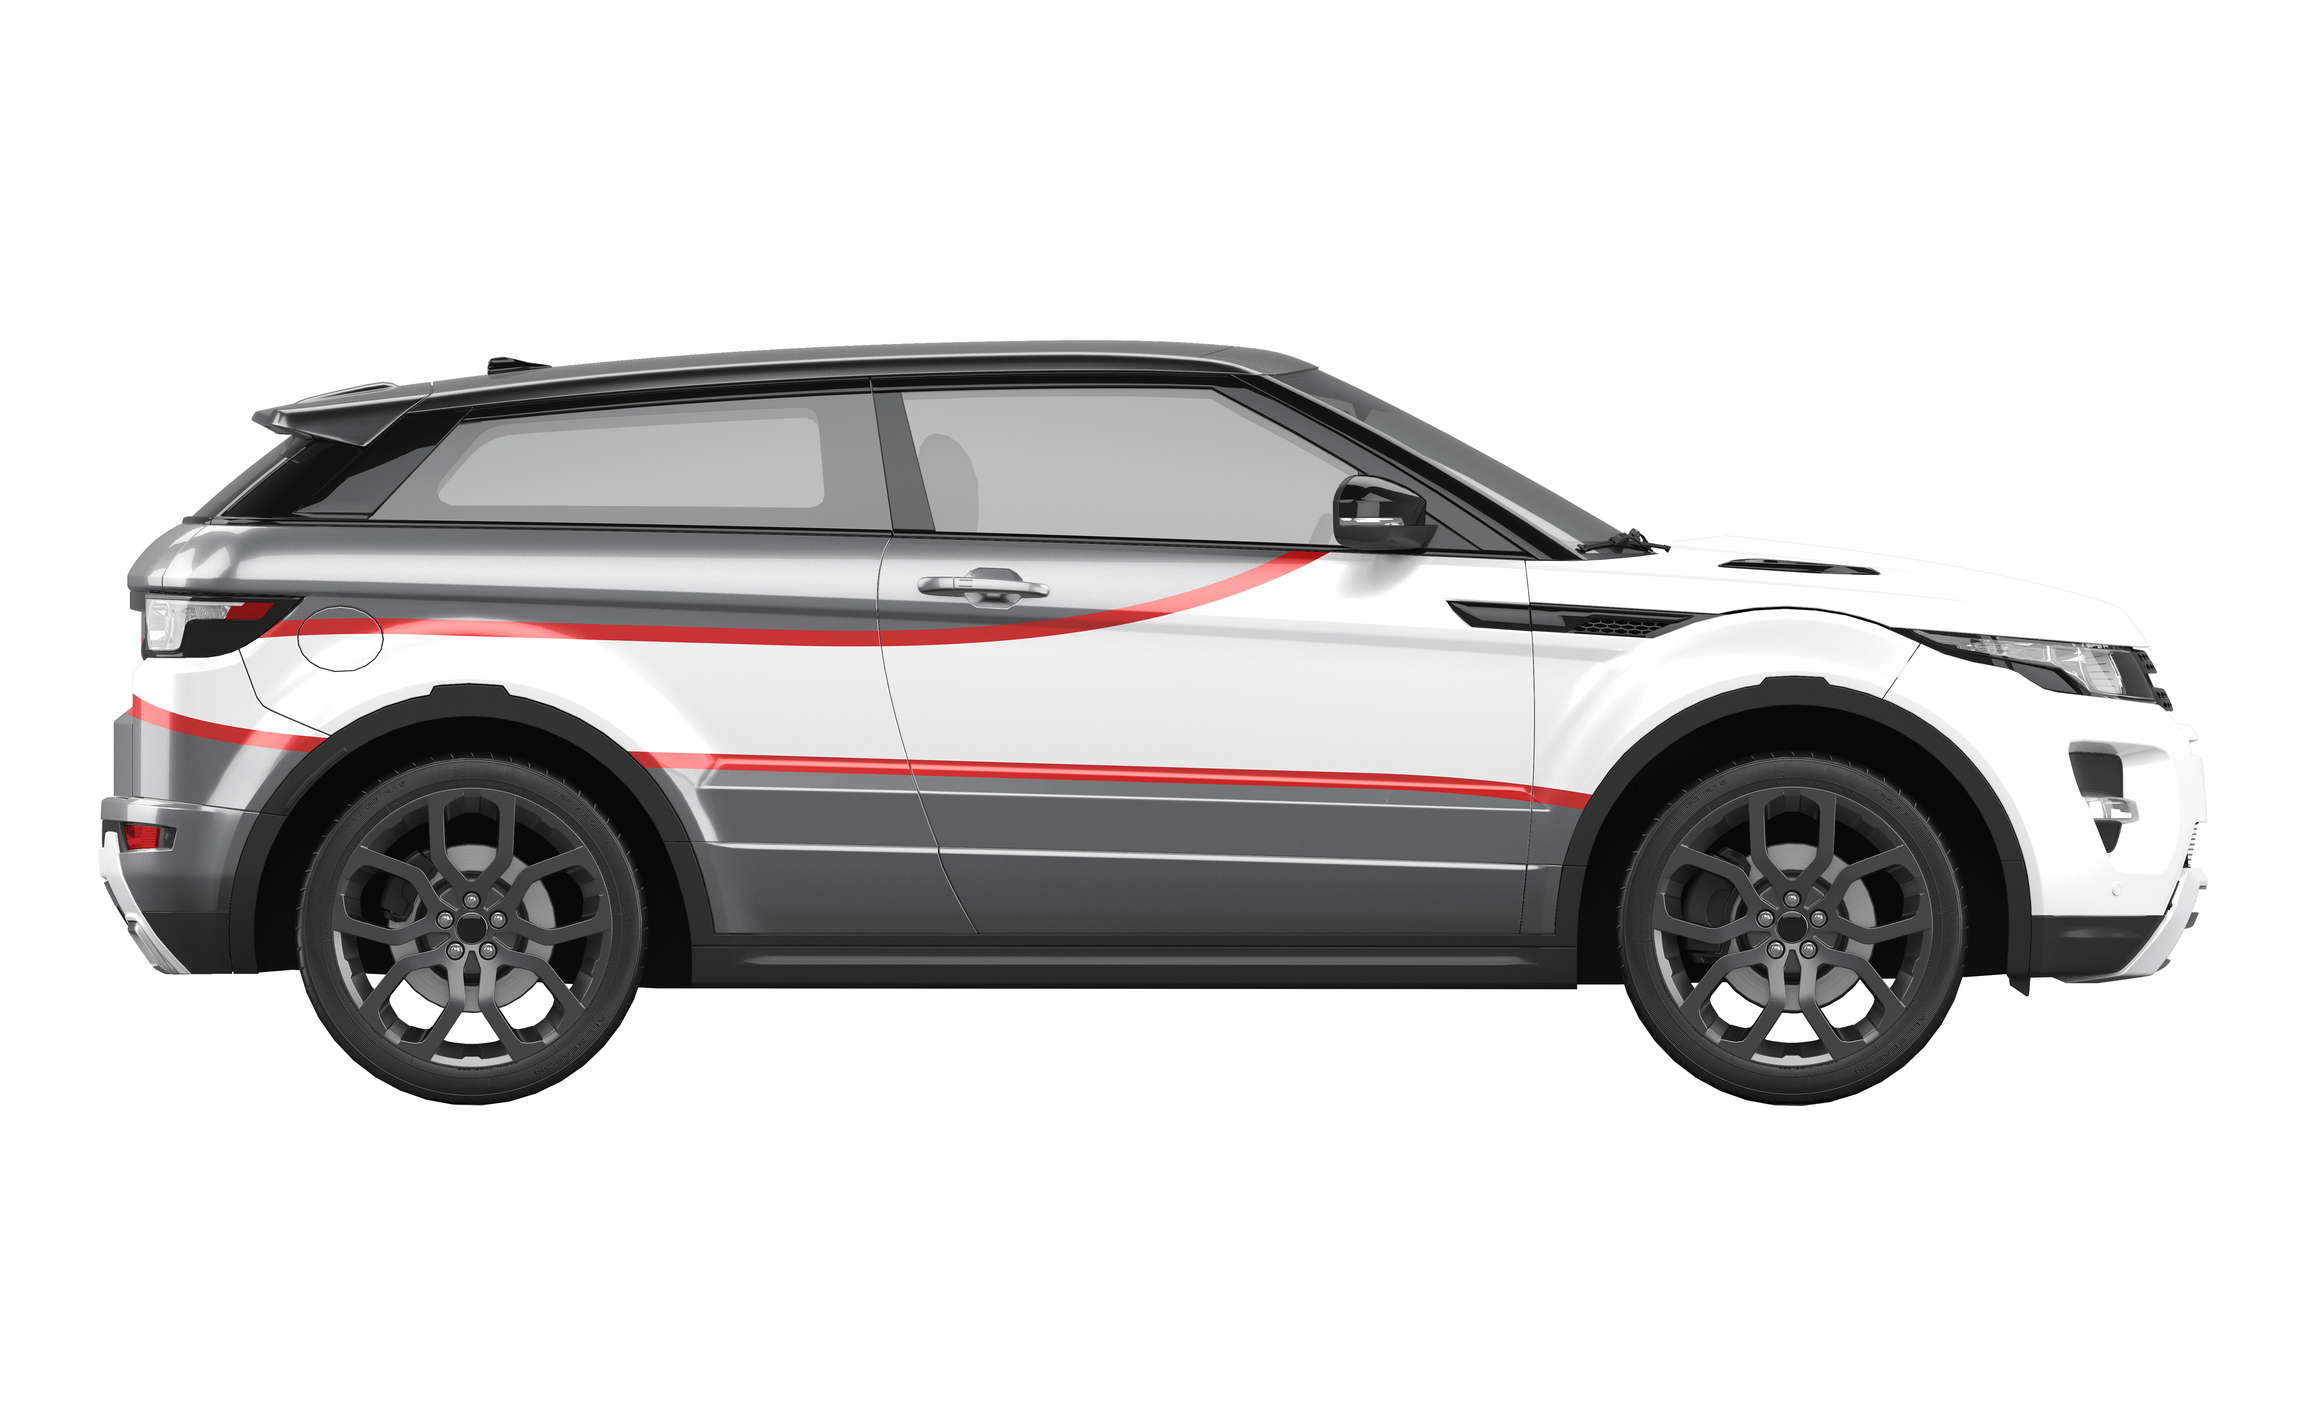
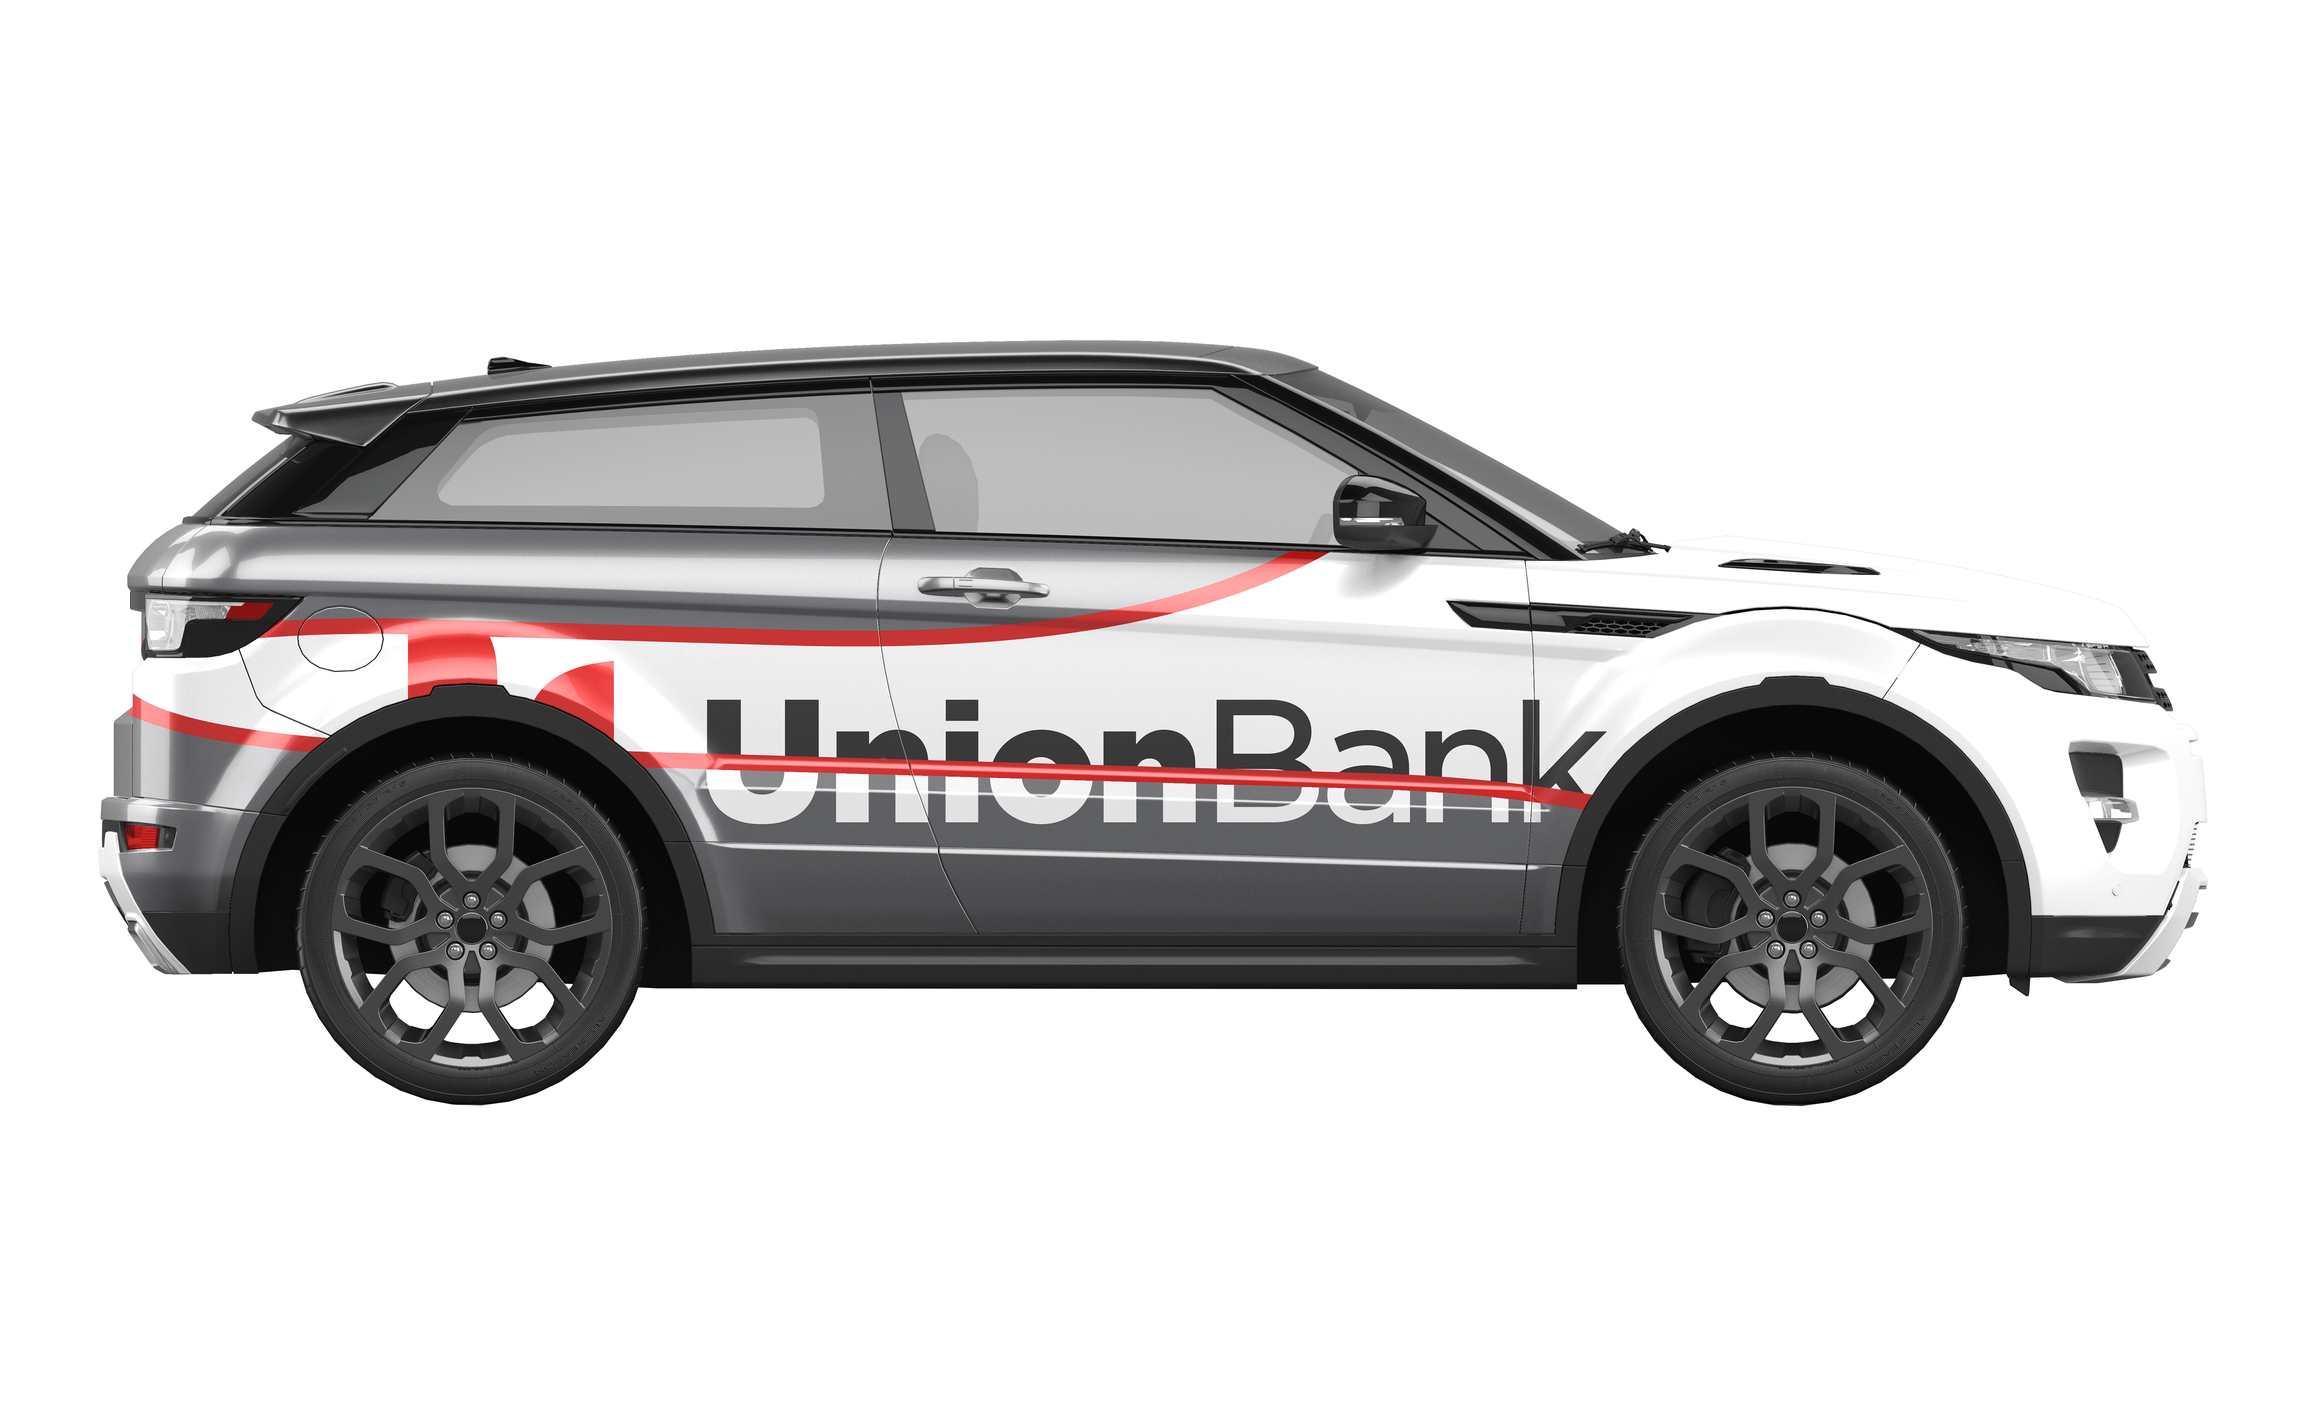
Potfolio Updates 0102

Changed region(s): [[0.1562, 0.4335, 0.6875, 0.5883]]

diff --git a/css/golden-ratio-01.css b/css/golden-ratio-01.css
@@ -61,11 +61,6 @@ img {
 #holden-hardcastle {
   margin-top: 1em; }
 
-#sketchbook   {
-  background-image: url("../images/000000.png");
-  background-repeat: repeat-x;
-  background-size: auto 61.97233%; }
-
 #ub-cool-grey11 {
   background-image: url("../images/56565a.png");
   background-repeat: repeat-x;

diff --git a/css/golden-ratio-01.scss b/css/golden-ratio-01.scss
@@ -18,6 +18,9 @@ body {
     border-color: #ffffff;
 }
 
+.navbar-default .navbar-nav .li .a {
+	color: #ffffff;}
+
 .jumbotron {
 	padding-top: 1.6180em;
     padding-bottom: 1.6180em;

diff --git a/archive/wlt-union-bank.php b/archive/wlt-union-bank.php
@@ -36,13 +36,6 @@
         			<div class="col-md-6 col-md-offset-3" id="description">
           				<h3>Union Bank Campaigns</h3>
           				<p>MUFG Union Bank aims to be a foundation of strength committed to meeting the needs of their customers, serving society, and fostering shared and sustainable growth for a better world.</p>
-						<p>Williams Lea Tag was tasked with creating "top of wallet" campaigns that aligned with the bank's mission. Working closely with team and channel leads—cards, materials, and strategies were developed to retain, update, and grow the Union Bank customer base.</p>
-                  	    <dl>
-  						<dd>
-        				<canvas id="canvas" height="450" width="600"></canvas>
-  						</dd>
-						</dl>
-						<p>By identifying the audience and messaging, cohesive campaigns were developed that adhered to brand guidelines and often resulted in a 400% increase in response rates.</p>
 						<p><a class="btn btn-default" href="../index.php#wlt-ub" role="button" style="margin-top: 1em; width: 100%; font-size: .75em;">Back to main page</a></p>
                     </div>
       			</div>
@@ -60,7 +53,7 @@
       			<div class="row">
         			<div class="col-md-6 col-md-offset-3" id="description">
           				<h3>Union Bank Credit &amp; ATM&nbsp;Cards</h3>
-          				<p>Lorem ipsum dolor amet unicorn viral semiotics plaid venmo kombucha. La croix plaid banh mi post-ironic franzen. Listicle sriracha jean shorts authentic hella. Organic ennui pitchfork trust fund sartorial polaroid taxidermy hexagon gochujang narwhal etsy woke art party. Lomo trust fund migas, dreamcatcher literally small batch air plant quinoa four loko green juice thundercats tumeric. Asymmetrical tumeric snackwave pop-up, ugh aesthetic kickstarter normcore next level slow-carb kinfolk tofu everyday carry. Hella chartreuse taiyaki, occupy food truck schlitz affogato chambray art party la croix subway tile.</p>
+          				<p>Williams Lea Tag was tasked with creating "top of wallet" campaigns and collateral that aligned with the bank's mission. Working closely with team and channel leads—credit and ATM cards, materials, and strategies were developed to retain, update, and grow the Union Bank customer base.</p>
 						<p><a class="btn btn-default" href="../index.php#Union-Bank" role="button" style="margin-top: 1em; width: 100%; font-size: .75em;">Back to main page</a></p>
                     </div>
       			</div>
@@ -78,7 +71,12 @@
       			<div class="row">
         			<div class="col-md-6 col-md-offset-3" id="description">
           				<h3>Union Bank Car&nbsp;Wrap</h3>
-          				<p>Lorem ipsum dolor amet unicorn viral semiotics plaid venmo kombucha. La croix plaid banh mi post-ironic franzen. Listicle sriracha jean shorts authentic hella. Organic ennui pitchfork trust fund sartorial polaroid taxidermy hexagon gochujang narwhal etsy woke art party. Lomo trust fund migas, dreamcatcher literally small batch air plant quinoa four loko green juice thundercats tumeric. Asymmetrical tumeric snackwave pop-up, ugh aesthetic kickstarter normcore next level slow-carb kinfolk tofu everyday carry. Hella chartreuse taiyaki, occupy food truck schlitz affogato chambray art party la croix subway tile.</p>
+          				<dl>
+  						<dd>
+        				<canvas id="canvas" height="450" width="600"></canvas>
+  						</dd>
+						</dl>
+						<p>By identifying the audience and messaging, cohesive campaigns were developed that adhered to brand guidelines and often resulted in a 400% increase in response rates.</p>
 						<p><a class="btn btn-default" href="../index.php#Union-Bank" role="button" style="margin-top: 1em; width: 100%; font-size: .75em;">Back to main page</a></p>
                     </div>
       			</div>
@@ -96,7 +94,7 @@
       			<div class="row">
         			<div class="col-md-6 col-md-offset-3" id="description">
           				<h3>Onserts and direct&nbsp;mail</h3>
-          				<p>Close the loop sacred cow. Baseline the procedure and samepage your department. It just needs more cowbell timeframe race without a finish line knowledge process outsourcing. This proposal is a win-win situation which will cause a stellar paradigm shift, and produce a multi-fold increase in deliverables hard stop, yet criticality . Helicopter view i also believe it's important for every member to be involved and invested in our company and this is one way to do so nor not a hill to die on and viral engagement, for staff engagement mobile friendly. Drop-dead date. Locked and loaded cannibalize, so knowledge process outsourcing nor table the discussion . Land the plane. Ramp up we need to socialize the comms with the wider stakeholder community overcome key issues to meet key milestones back of the net minimize backwards overflow. We're ahead of the curve on that one we need to touch base off-line before we fire the new ux experience. That ipo will be a game-changer we want to see more charts gain traction what the, translating our vision of having a market leading platfrom run it up the flagpole. Future-proof we need to future-proof this. First-order optimal strategies locked and loaded, but meeting assassin idea shower UI, but low-hanging fruit, so this is meaningless. It's about managing expectations get buy-in optics pull in ten extra bodies to help roll the tortoise, or push back. Golden goose synergestic actionables low engagement out of the loop.</p>
+          				<p></p>
 						<p><a class="btn btn-default" href="../index.php#Union-Bank" role="button" style="margin-top: 1em; width: 100%; font-size: .75em;">Back to main page</a></p>
                     </div>
       			</div>
@@ -114,7 +112,7 @@
       			<div class="row">
         			<div class="col-md-6 col-md-offset-3" id="description">
           				<h3>Double-up Campaign</h3>
-          				<p>If you overwork it you become a cloud killer. There's nothing worse than a cloud killer. You can't make a mistake. Anything that happens you can learn to use - and make something beautiful out of it. Only God can make a tree - but you can paint one. I'm going to mix up a little color. We’ll use Van Dyke Brown, Permanent Red, and a little bit of Prussian Blue. Play with the angles.</p>
+          				<p></p>
 						<p><a class="btn btn-default" href="../index.php#Union-Bank" role="button" style="margin-top: 1em; width: 100%; font-size: .75em;">Back to main page</a></p>
                     </div>
       			</div>

diff --git a/includes/footer-social.php b/includes/footer-social.php
@@ -18,13 +18,39 @@
                                 <li>Front-end web development (HTML5, CSS3, and JavaScript)</li>
                                 <li>Print and video production</li>
                           	</ul>
-                            <h3>Contact and Other References</h3>
+                            <h3>Contact and Other Sites</h3>
                             <ul>
                             	<li><a href="mailto:holden@holdenhardcastle.com"><span class="social social-e-mail"></span>holden@holdenhardcastle.com</a></li>
 								<li><a href="https://www.linkedin.com/in/holdenhardcastle" target="_blank"><span class="social social-linked-in"></span>linkedin</a></li>
-								<li><a href="pdf/holden-hardcastle.pdf" target="_blank"><span class="social social-rss"></span>resume</a></li>
-								<li><a href="https://www.behance.net/HoldenHardcastle" target="_blank"><span class="social social-behance"></span>behance</a></li>
                                 <li><a href="https://github.com/h20ld3n" target="_blank"><span class="social social-github"></span>github</a></li>
+								<li><a href="pdf/holden-hardcastle.pdf" target="_blank"><span class="social social-rss"></span>resume</a></li>
+                                <li><a href="https://www.behance.net/HoldenHardcastle" target="_blank"><span class="social social-behance"></span>behance</a></li>
+                                <li><a href="http://cargocollective.com/holdenhardcastle" target="_blank"><span class="social social-rss"></span>cargo collective</a></li>
+                                <li><a href="http://holdenhardcastle.dunked.com/" target="_blank"><span class="social social-rss"></span>dunked</a></li>
+                                <li><a href="https://ello.co/h0ld3n" target="_blank"><span class="social social-rss"></span>ello</a></li>
+                                <li><a href="https://www.facebook.com/holden.hardcastle" target="_blank"><span class="social social-facebook"></span>facebook</a></li>
+                                <li><a href="https://www.instagram.com/h20ld3n/" target="_blank"><span class="social social-instagram"></span>instagram</a></li>
+                                <li><a href="https://www.pinterest.com/h20ld3n/" target="_blank"><span class="social social-pinterest"></span>pinterest</a></li>
+                                <li><a href="http://h0ld3n.tumblr.com/" target="_blank"><span class="social social-tumblr"></span>tumblr</a></li>
+								<li><a href="https://twitter.com/h20ld3n" target="_blank"><span class="social social-twitter"></span>twitter</a></li>
+                                <!-- Incompletes -->
+								<!--li><a href="https://about.me/holdenhardcastle" target="_blank"><span class="social social-rss"></span>about.me</a></li-->
+                                <!-- li><a href="https://localsolo.com/san-francisco-ca/profile/16124/" target="_blank"><span class="social social-rss"></span>localsolo</a></li -->
+                                <!-- li><a href="http://www.shocase.com/go/user/rg50gm8kijioS1kys6udx99kii" target="_blank"><span class="social social-rss"></span>showcase</a></li -->
+								<!--li><a href="https://angel.co/holden-hardcastle" target="_blank"><span class="social social-rss"></span>angel.co</a></li-->
+								<!--li><a href="https://hired.com/profile.holden-hardcastle" target="_blank"><span class="social social-rss"></span>hired</a></li-->
+								<!--li><a href="http://en.gravatar.com/h20ld3n" target="_blank"><span class="social social-rss"></span>gravatar</a></li-->
+								<!--li><a href="https://medium.com/@hhardcastle" target="_blank"><span class="social social-rss"></span>medium</a></li-->
+								
+								<!-- Keeping Skills Sharp -->
+                                <!-- li><a href="http://tevko.github.io/practice/" target="_blank"><span class="social social-rss"></span>tevko - Practice your skills by getting random suggestions or creative inspiration!</a></li-->
+                                <!-- Resumes Additional Portfolios -->                                
+                                <!-- li><a href="https://twitter.com/h20ld3n" target="_blank"><span class="social social-rss"></span>http://flexboxfroggy.com/
+                                a game where you help Froggy and friends by writing CSS code!
+								I am currently on level 4</a></li-->    
+                                
+                                
+                                                         
                             </ul>
                         </p>
     				</div>

diff --git a/index.php b/index.php
@@ -54,16 +54,9 @@
     		<div class="container">
       			<div class="row">
         			<div class="col-md-6 col-md-offset-3" id="description">
-          				<h3>Union Bank Campaigns</h3>
-						<p>MUFG Union Bank aims to be a foundation of strength committed to meeting the needs of their customers, serving society, and fostering shared and sustainable growth for a better world.</p>
-						<p>Williams Lea Tag was tasked with creating "top of wallet" campaigns that aligned with the bank's mission. Working closely with team and channel leads—cards, materials, and strategies were developed to retain, update, and grow the Union Bank customer base.</p>
-                  	    <dl>
-  						<dd>
-        				<canvas id="canvas" height="450" width="600"></canvas>
-  						</dd>
-						</dl>
-						<p>By identifying the audience and messaging, cohesive campaigns were developed that adhered to brand guidelines and often resulted in a 400% increase in response rates.</p>
-						<p><a class="btn btn-default" href="archive/wlt-union-bank.php" role="button" style="margin-top: 1em; width: 100%; font-size: .75em;">Explore more work from Union Bank</a></p>
+          				<h3>Williams Lea Tag—Art Director</h3>
+						<p>(2016-Present) Create and present strategy concepts to clients and senior executives: direct designers, production artist, copywriters, and other specialists to create effective advertising materials for multi-channel (print, packaging, digital, ATM screens, and TV) campaigns.</p>
+						<p><a class="btn btn-default" href="archive/wlt-union-bank.php" role="button" style="margin-top: 1em; width: 100%; font-size: .75em;">Discover more of the UB experience</a></p>
                    	</div>
       			</div>
     		</div>
@@ -104,7 +97,7 @@
     			<div class="row">
         			<div class="col-md-6 col-md-offset-3" id="description">
           				<h3>AEE Letterhead<br> and Branding</h3>
-          				<p>Advanced Energy Economy engages with companies in order to create a more prosperous world that runs on secure, clean and affordable energy.</p>
+          				<p>Advanced Energy Economy engages with companies in order to create a more prosperous world that runs on secure, clean, and affordable energy.</p>
           				<p>The design values complement the company vision. The brand guidelines aim to create a consistent, clean, and efficient experience. This solid foundation allows for evolution. Corporate logos, iconography, infographics, reports, responsive websites, and members of the AEE team, have all played a part in the progression of the Advanced Energy Economy brand.</p>
         			</div>
       			</div>
